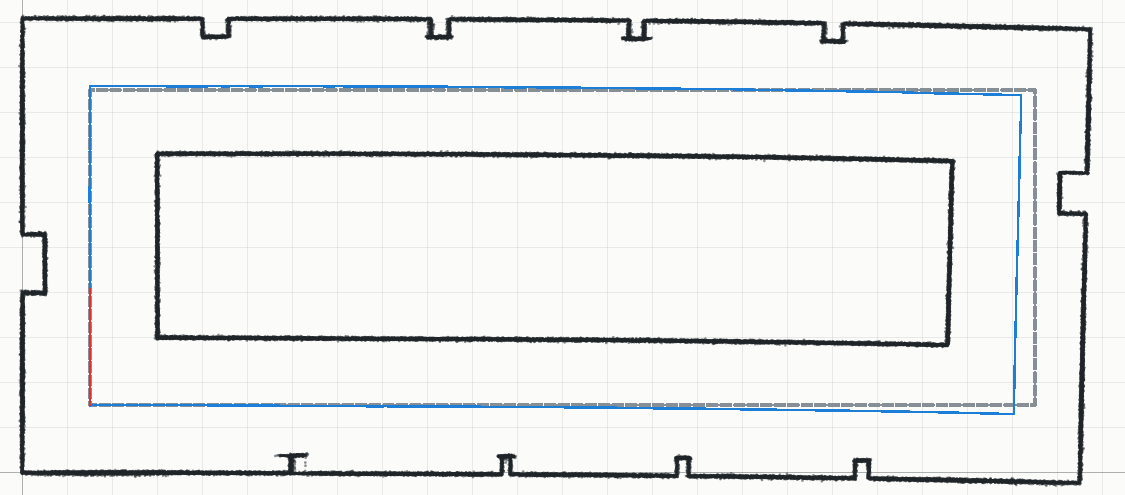
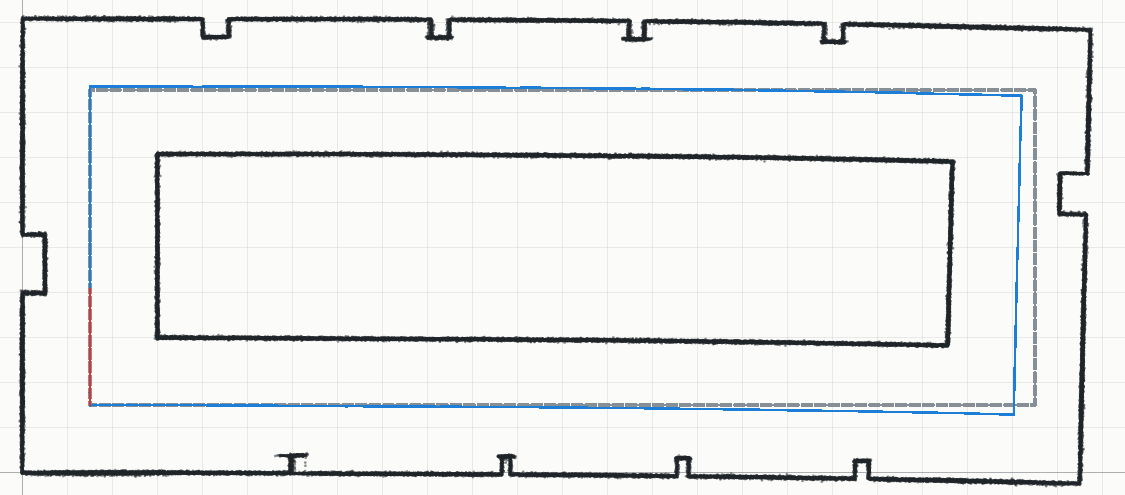
SLAM en direct : la page ne se bloque plus
- Pendant le SLAM en direct (USB, Wi-Fi), on affiche la grille et la carte
  vectorielle que le SLAM construit déjà, au lieu de tout reconstruire
  (cartes et vue propre avec TOUS les scans) à chaque scan clé : plusieurs
  secondes au-delà de 50 scans. Reconstruction complète une fois, à l'arrêt.
- Scans du relais USB : un seul calcul en attente, sur le scan le plus
  récent ; les scans intermédiaires sont sautés au lieu de s'empiler.
- Slam : relocalisation au plus tous les relocEvery scans (10 en direct) ;
  fermeture de boucle par recalage rapide (Gauss-Newton + ICP) d'abord, la
  recherche large seulement si permise (pas en direct).
Mesuré avec le faux robot, 56 scans clés : plus longue tâche 0,18 s (0,7 s
avant les deux derniers points, plusieurs secondes avant le premier).
Précision du banc SLAM inchangée (salle 0,5 cm, couloir 30 cm).

diff --git a/app/app.js b/app/app.js
@@ -344,7 +344,7 @@ async function loadRoomScans() {
 // sur /live (Server-Sent Events). Le scan courant est dessiné en continu à la pose du scan
 // sélectionné ; « Ajouter ce scan » (ou Espace) le fige dans la liste.
 
-const live = { source: null, text: null, scan: null, time: 0, status: null };
+const live = { source: null, text: null, scan: null, time: 0, status: null, pending: false };
 
 function liveStatus(msg) {
   $('liveStat').textContent = msg;
@@ -371,9 +371,16 @@ async function startLive() {
     live.time = Date.now();
     $('liveAdd').disabled = false;
     renderLiveStatus();
-    if ($('slamLive').checked) slamLiveStep();
     if (firstScan && !state.scans.length) fitView();
-    else draw();
+    // un seul calcul en attente, sur le scan le plus récent : si le SLAM est plus lent que le
+    // lidar, les scans intermédiaires sont sautés au lieu de s'empiler (sinon la page se bloque)
+    if (live.pending) return;
+    live.pending = true;
+    setTimeout(() => {
+      live.pending = false;
+      if ($('slamLive').checked) slamLiveStep();
+      else draw();
+    }, 0);
   });
   live.source.onerror = () => liveStatus('Relais live.py injoignable (arrêté ?), nouvel essai…');
 }
@@ -1207,7 +1214,7 @@ function slamLiveStep() {
   if (state.slamBusy || !live.scan) return;
   state.slamBusy = true;
   try {
-    state.slam ??= new Slam();
+    state.slam ??= liveSlam();
     const slam = state.slam;
     const first = slam.keyframes.length ? null : state.selected?.pose ?? { x: 0, y: 0, theta: 0 };
     const prev = state.slamLivePose;
@@ -1231,7 +1238,7 @@ function slamLiveStep() {
     }
     if (r.loop) for (const e of state.scans) if (e.slamIndex != null) e.pose = { ...slam.trajectory[e.slamIndex].pose };
     state.slamTrack = slam.keyframes.map((kf) => kf.pose);
-    if (r.keyframe || r.loop) poseChanged();
+    if (r.keyframe || r.loop) showSlamMaps(slam);
     const kf = slam.keyframes.at(-1).pose;
     const sinceKf = 100 * Math.hypot(r.pose.x - kf.x, r.pose.y - kf.y);
     $('slamStat').innerHTML = `SLAM en direct : pose ${fmtPose(r.pose)} · dernier pas ${step ? `${stepCm.toFixed(0)} cm / ${Math.abs(step.theta).toFixed(0)}°` : '–'}${fast ? ' · <strong class="warn">trop vite, ralentir</strong>' : ''} · ${sinceKf.toFixed(0)} cm depuis le dernier scan clé<br>${slam.keyframes.length} scans clés · dernier scan ${r.mode} (${Math.round(100 * r.inliers)} % sur la carte, ${Math.round(r.time)} ms)${slam.loops.length ? ` · ${slam.loops.length} boucle(s)` : ''}`;
@@ -1240,6 +1247,30 @@ function slamLiveStep() {
     state.slamBusy = false;
   }
 }
+
+/**
+ * Pendant le SLAM en direct (USB, Wi-Fi) : on affiche les cartes que le SLAM construit déjà scan par
+ * scan, au lieu de tout reconstruire à chaque scan clé (grid map, carte vectorielle et vue propre
+ * refaites avec TOUS les scans : plusieurs secondes au-delà de 50 scans, la page se bloquait). La
+ * reconstruction complète se fait une seule fois, à l'arrêt du SLAM (finishLiveSlam).
+ */
+function showSlamMaps(slam) {
+  state.grid = slam.grid;
+  state.gridImage = null;
+  state.vector = slam.vector;
+  Object.assign(state, { gridClean: null, gridCleanImage: null, gridLoc: null, vectorClean: null, corners: null });
+}
+
+/** Fin du SLAM en direct : cartes complètes (et vue propre) reconstruites une fois. */
+function finishLiveSlam() {
+  if (state.scans.some((e) => e.slamIndex != null)) poseChanged();
+}
+
+/**
+ * SLAM pour le direct : la recherche dans toute la salle (0,5 à 1 s) au plus tous les 10 scans, et
+ * les fermetures de boucle par recalage rapide seulement (la recherche large bloquait la page 0,6 s).
+ */
+const liveSlam = () => new Slam({ relocEvery: 10, loopFullSearch: false });
 
 function resetSlam() {
   Object.assign(state, { slam: null, slamTrack: null, slamLivePose: null });
@@ -1380,7 +1411,7 @@ function robotSpeeds() {
 /** Scan Wi-Fi, SLAM avec l'odométrie de la dernière commande, étalonnage, scans clés dans la liste. */
 async function wifiScanStep() {
   const scan = parseRobotBinary(await robotGet('/scan', true), captureName());
-  const slam = (state.slam ??= new Slam());
+  const slam = (state.slam ??= liveSlam());
   const first = slam.keyframes.length ? null : state.selected?.pose ?? { x: 0, y: 0, theta: 0 };
   const r = slam.addScan(scan, wifi.odom, first);
   let measured = null;
@@ -1401,7 +1432,7 @@ async function wifiScanStep() {
     select(entry);
   }
   if (r.loop) for (const e of state.scans) if (e.slamIndex != null) e.pose = { ...slam.trajectory[e.slamIndex].pose };
-  if (r.keyframe || r.loop) poseChanged();
+  if (r.keyframe || r.loop) showSlamMaps(slam);
   state.slamTrack = slam.keyframes.map((kf) => kf.pose);
   state.slamLivePose = r.pose;
   return { scan, r, slam, measured };
@@ -1594,6 +1625,7 @@ function stopTeleop() {
   teleop.running = false;
   if (viaUsb()) $('slamLive').checked = false;
   $('btnTeleop').textContent = 'Démarrer le SLAM';
+  finishLiveSlam();
 }
 
 /** Curseur de vitesse : nouvelle consigne au robot ; les vitesses estimées suivent la même proportion. */
@@ -1969,6 +2001,7 @@ $('slamLive').onchange = () => {
   $('slamStat').textContent = $('slamLive').checked
     ? 'SLAM en direct : déplacer doucement le robot ; un scan clé est ajouté tous les 20 cm ou 10°.'
     : 'SLAM en direct arrêté.';
+  if (!$('slamLive').checked) finishLiveSlam();
   draw();
 };
 $('vecMinObs').onchange = () => {

diff --git a/src/core/slam.js b/src/core/slam.js
@@ -32,6 +32,7 @@ export const DEFAULT_SLAM = Object.freeze({
   fastTracking: true, // suivi par Gauss-Newton d'abord, multi-résolution en secours
   fastInliers: 0.7, // part des points sur la carte pour se contenter du suivi rapide
   relocalize: true, // relocalisation globale si le suivi échoue
+  relocEvery: 1, // scans minimum entre deux tentatives de relocalisation (coûteuse : 0,5 à 1 s)
   priorXY: 1, // m : écart-type de l'a priori de position quand le mouvement est connu (odométrie)
   priorTheta: 20, // degrés : idem pour l'orientation
   keyDist: 0.2, // m : nouveau scan clé après ce déplacement
@@ -42,6 +43,7 @@ export const DEFAULT_SLAM = Object.freeze({
   loopWindow: { xyRange: 1, thRange: 20 }, // recherche autour de la pose estimée (dérive tolérée)
   loopMinInliers: 0.6, // part des points du nouveau scan sur l'ancien pour accepter la boucle
   loopEvery: 5, // scans clés minimum entre deux fermetures de boucle
+  loopFullSearch: true, // recherche large si le recalage rapide échoue (coûteuse ; false en direct)
   anisotropic: true, // précision des liens par direction, d'après les normales des points (sinon σ fixes)
   sigmaPoint: 0.03, // m : bruit supposé d'un point (bruit du lidar + erreurs de recalage)
   sigmaTrack: { xy: 0.05, theta: 1 }, // précision d'un lien de suivi si anisotropic = false (m, degrés)
@@ -114,6 +116,7 @@ export class Slam {
     this.vector = new VectorMap([], { absence: false });
     this.last = null; // dernière pose estimée
     this.lastLoop = -Infinity;
+    this.lastReloc = -Infinity;
     this.localRef = null;
     this.globalRef = null;
   }
@@ -178,7 +181,8 @@ export class Slam {
     const i = localize(ref, points, m.pose, 'icp');
     let best = i.inliers >= m.inliers ? i : m;
     let mode = 'suivi';
-    if (best.inliers < this.o.minInliers && this.o.relocalize) {
+    if (best.inliers < this.o.minInliers && this.o.relocalize && index - this.lastReloc >= this.o.relocEvery) {
+      this.lastReloc = index;
       // avec un mouvement connu, la relocalisation cherche autour de la pose prédite (a priori)
       const g = this.relocalize(points, odom ? { pose: predicted, sigmaXY: this.o.priorXY, sigmaTheta: this.o.priorTheta } : null);
       // relocalisation acceptée seulement si elle est fiable ET colle à la carte (sinon : symétrique
@@ -225,9 +229,16 @@ export class Slam {
     for (const { j } of candidates) {
       const old = this.keyframes[j];
       const ref = scanReference(toWorld(old.points, old.pose));
-      const m = localize(ref, kf.points, kf.pose, 'multires', this.o.loopWindow);
-      const r = localize(ref, kf.points, m.pose, 'icp');
-      const best = r.inliers >= m.inliers ? r : m;
+      // recalage rapide d'abord (Gauss-Newton puis ICP, quelques ms) ; la recherche large
+      // (multi-résolution ±1 m, ±20°, plusieurs centaines de ms) seulement s'il échoue et si permise
+      const fast = localize(ref, kf.points, kf.pose, 'gaussnewton');
+      let best = localize(ref, kf.points, fast.pose, 'icp');
+      if (fast.inliers > best.inliers) best = fast;
+      if (best.inliers < this.o.loopMinInliers && this.o.loopFullSearch) {
+        const m = localize(ref, kf.points, kf.pose, 'multires', this.o.loopWindow);
+        const r = localize(ref, kf.points, m.pose, 'icp');
+        best = r.inliers >= m.inliers ? r : m;
+      }
       if (best.inliers < this.o.loopMinInliers) continue;
       const link = this.o.anisotropic ? { info: scanInformation(kf.points, this.o.sigmaPoint) } : { sigma: this.o.sigmaLoop };
       this.edges.push({ from: j, to: k, z: relative(old.pose, best.pose), ...link, kind: 'boucle' });

diff --git a/docs/jour3_slam.md b/docs/jour3_slam.md
@@ -12,8 +12,8 @@ sur toute la trajectoire.
 | Méthode | ATE | Erreur max | Arrivée | Scans clés | Relocalisations | Boucles | Temps / scan |
 | --- | --- | --- | --- | --- | --- | --- | --- |
 | Odométrie seule | 56.4 cm | 90.8 cm | 78.3 cm / 16.1° | – | – | – | – |
-| SLAM sans odométrie | **0.6 cm** | 1.9 cm | 1.9 cm / 0.3° | 75 | 3 | 3 (correction 0 cm, 1 cm, 2 cm) | 124 ms |
-| SLAM avec odométrie | **0.6 cm** | 1.8 cm | 1.8 cm / 0.3° | 75 | 0 | 3 (correction 0 cm, 1 cm, 2 cm) | 74 ms |
+| SLAM sans odométrie | **0.5 cm** | 1.3 cm | 1.2 cm / 0.3° | 75 | 3 | 3 (correction 0 cm, 1 cm, 1 cm) | 183 ms |
+| SLAM avec odométrie | **0.5 cm** | 1.3 cm | 1.1 cm / 0.3° | 75 | 0 | 3 (correction 0 cm, 1 cm, 1 cm) | 124 ms |
 
 ## B. Couloir en boucle de 54 m (lidar limité à 4 m)
 
@@ -22,9 +22,9 @@ sur toute la trajectoire.
 | Méthode | ATE | Erreur max | Arrivée | Scans clés | Relocalisations | Boucles | Temps / scan |
 | --- | --- | --- | --- | --- | --- | --- | --- |
 | Odométrie seule | 726.8 cm | 1465.3 cm | 1445.6 cm / 87.6° | – | – | – | – |
-| SLAM sans fermeture de boucle | **46.1 cm** | 63.5 cm | 42.5 cm / 1.5° | 188 | 0 | 0 | 44 ms |
-| SLAM + fermeture de boucle (précisions fixes) | **31.5 cm** | 56.0 cm | 2.3 cm / 0.0° | 188 | 0 | 2 (correction 41 cm, 9 cm) | 58 ms |
-| SLAM + fermeture de boucle (précision par direction) | **30.1 cm** | 51.7 cm | 2.0 cm / 0.1° | 188 | 0 | 2 (correction 41 cm, 9 cm) | 58 ms |
+| SLAM sans fermeture de boucle | **46.1 cm** | 63.5 cm | 42.5 cm / 1.5° | 188 | 0 | 0 | 87 ms |
+| SLAM + fermeture de boucle (précisions fixes) | **31.7 cm** | 56.7 cm | 3.0 cm / 0.0° | 188 | 0 | 2 (correction 40 cm, 9 cm) | 119 ms |
+| SLAM + fermeture de boucle (précision par direction) | **30.1 cm** | 51.9 cm | 2.2 cm / 0.1° | 188 | 0 | 2 (correction 40 cm, 9 cm) | 118 ms |
 
 Figures : points des scans clés à leur pose estimée (noir), trajectoire vraie (gris pointillé),
 odométrie seule (orange), SLAM (bleu), liens de fermeture de boucle (rouge).
